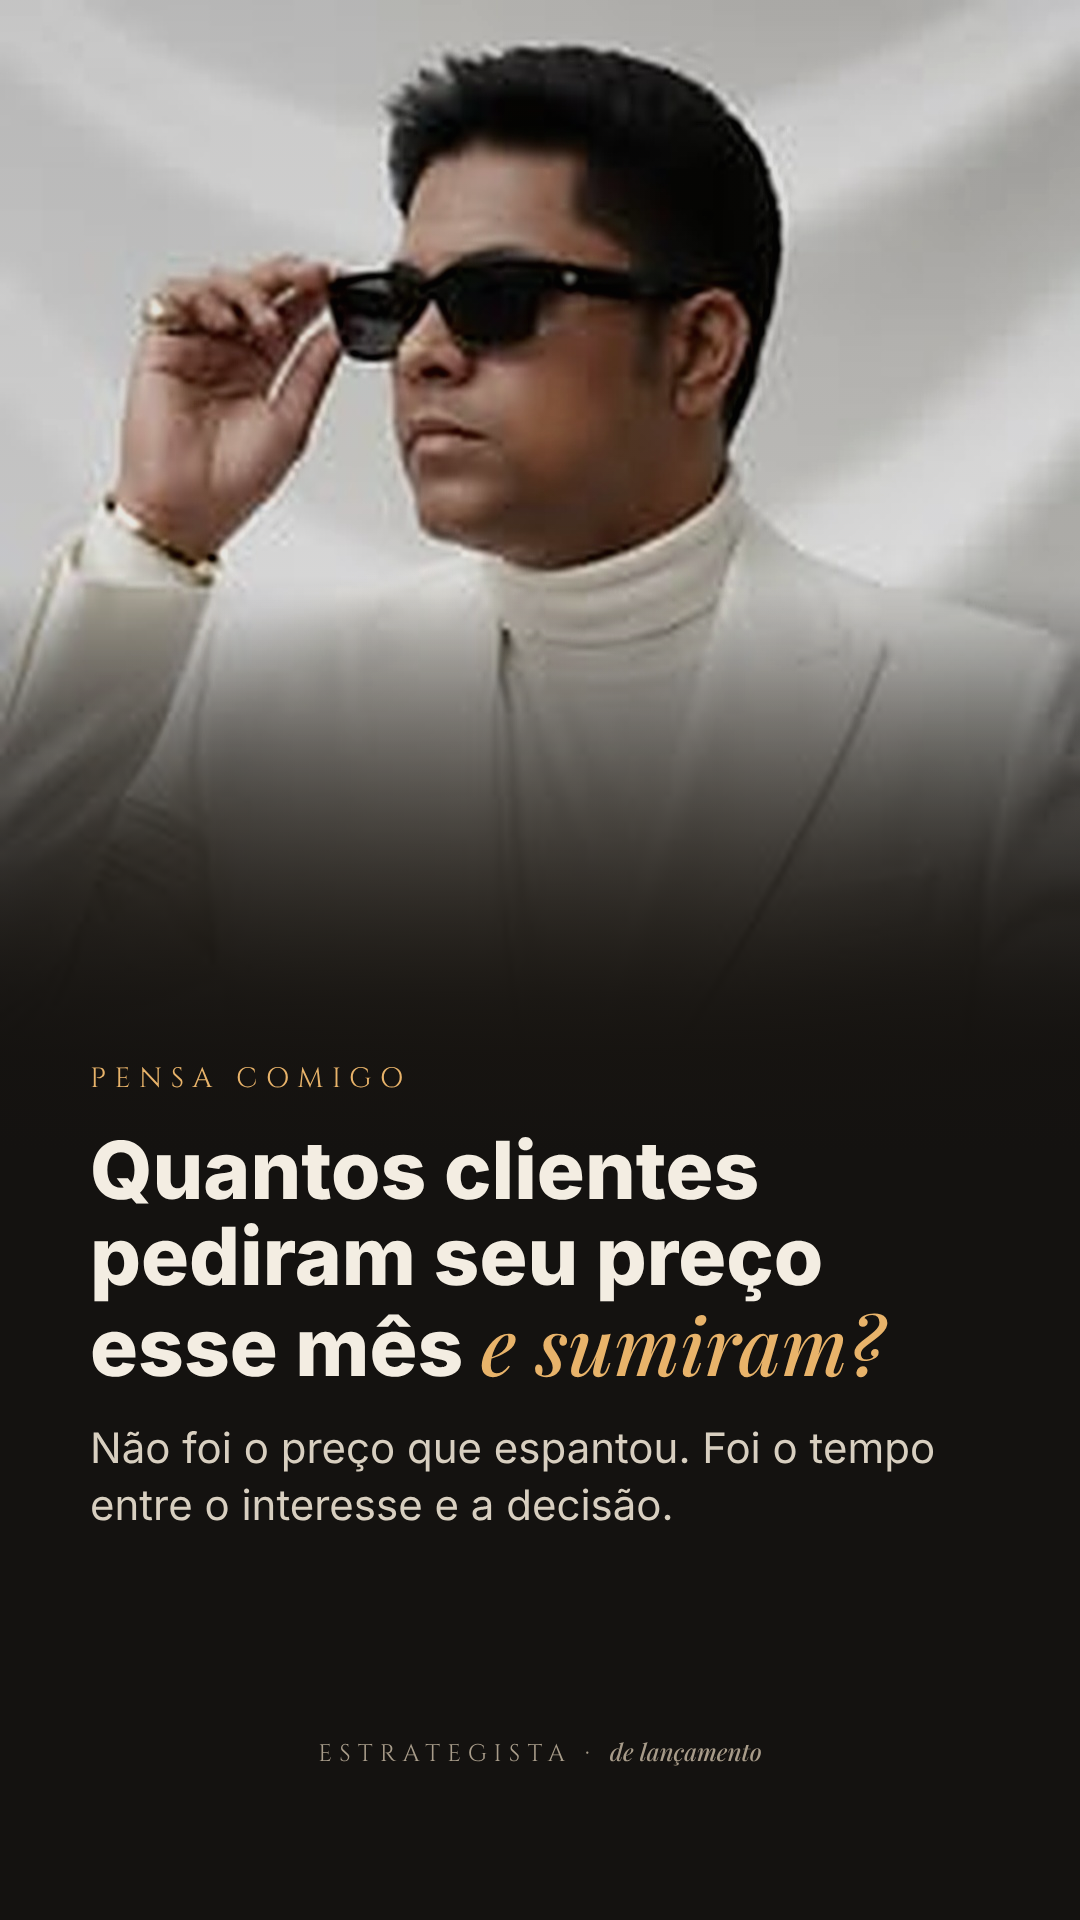
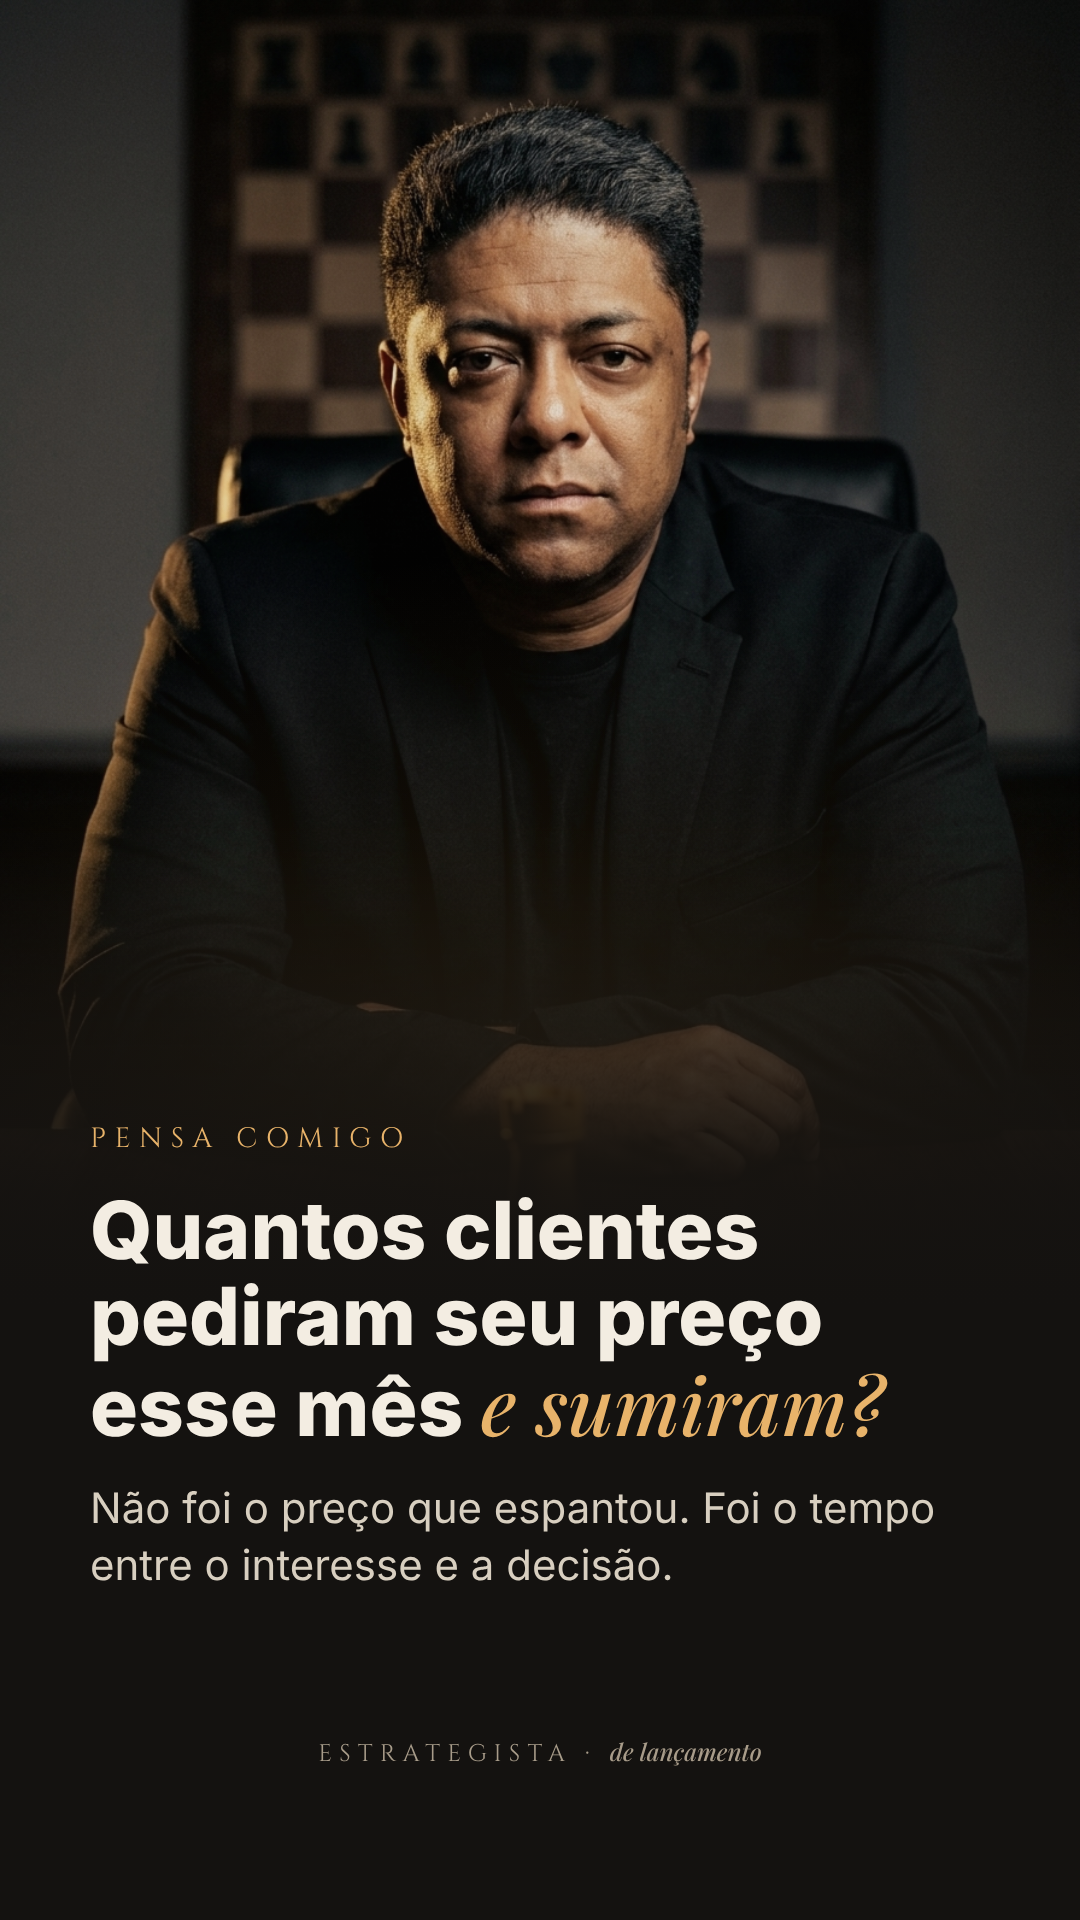
Stories do dia com as fotos do Flow
Claude-Session: https://claude.ai/code/session_01D6NtRh1ZFd58NJkYdfc4eK

diff --git a/estaticos/stories-hoje/s.html b/estaticos/stories-hoje/s.html
@@ -2,9 +2,9 @@
 @font-face{font-family:Cinzel;src:url(../../videos/ads/a01-campinas/fonts/cinzel-latin.woff2)}
 @font-face{font-family:Pf;src:url(../../videos/ads/a01-campinas/fonts/playfair-italic-latin.woff2);font-style:italic}
 body{margin:0;width:1080px;height:1920px;background:#141210;color:#F3EDE2;font-family:-apple-system,Helvetica,Arial,sans-serif;position:relative;overflow:hidden}
-.f{position:absolute;top:0;left:0;width:1080px;height:1080px;background:url(foto.jpg) center/cover;filter:grayscale(.15);-webkit-mask-image:linear-gradient(180deg,#000 55%,transparent 98%)}
-.g{position:absolute;top:0;left:0;right:0;height:1920px;background:linear-gradient(180deg,rgba(20,18,16,.15) 0,rgba(20,18,16,.1) 30%,rgba(20,18,16,.85) 52%,#141210 60%),radial-gradient(800px 600px at 50% 60%,rgba(196,140,52,.18),transparent)}
-.t{position:absolute;left:90px;right:90px;top:1060px}
+.f{position:absolute;top:0;left:0;width:1080px;height:1300px;background:center top/cover;filter:grayscale(.15);-webkit-mask-image:linear-gradient(180deg,#000 62%,transparent 99%)}
+.g{position:absolute;top:0;left:0;right:0;height:1920px;background:linear-gradient(180deg,rgba(20,18,16,.15) 0,rgba(20,18,16,.1) 30%,rgba(20,18,16,.15) 45%,rgba(20,18,16,.9) 62%,#141210 68%),radial-gradient(800px 600px at 50% 60%,rgba(196,140,52,.18),transparent)}
+.t{position:absolute;left:90px;right:90px;top:1120px}
 .lb{font-family:Cinzel;letter-spacing:.3em;color:#E8B36A;font-size:28px}
 h1{font-size:80px;line-height:1.08;margin:30px 0;font-weight:800}
 h1 i{font-family:Pf;font-weight:400;color:#E8B36A}
@@ -16,5 +16,5 @@ const S={
 1:`<div class=lb>PENSA COMIGO</div><h1>Quantos clientes pediram seu preço esse mês <i>e sumiram?</i></h1><p>Não foi o preço que espantou. Foi o tempo entre o interesse e a decisão.</p>`,
 2:`<div class=lb>A PERGUNTA CERTA</div><h1>Você vende o seu trabalho <i>ou vende a decisão?</i></h1><p>Quem tem método encurta o caminho do cliente. Quem não tem, espera ele voltar.</p>`,
 3:`<div class=lb>ÚLTIMA COISA</div><h1>Se isso acontece com você, <i>me chama no direct.</i></h1><p>Me conta sua profissão e eu te mostro onde o seu cliente escapa.</p>`};
-document.getElementById('c').innerHTML=S[new URLSearchParams(location.search).get('n')];
+const n=new URLSearchParams(location.search).get('n');document.querySelector('.f').style.backgroundImage='url(foto'+n+'.jpg)';document.getElementById('c').innerHTML=S[new URLSearchParams(location.search).get('n')];
 </script></body></html>
